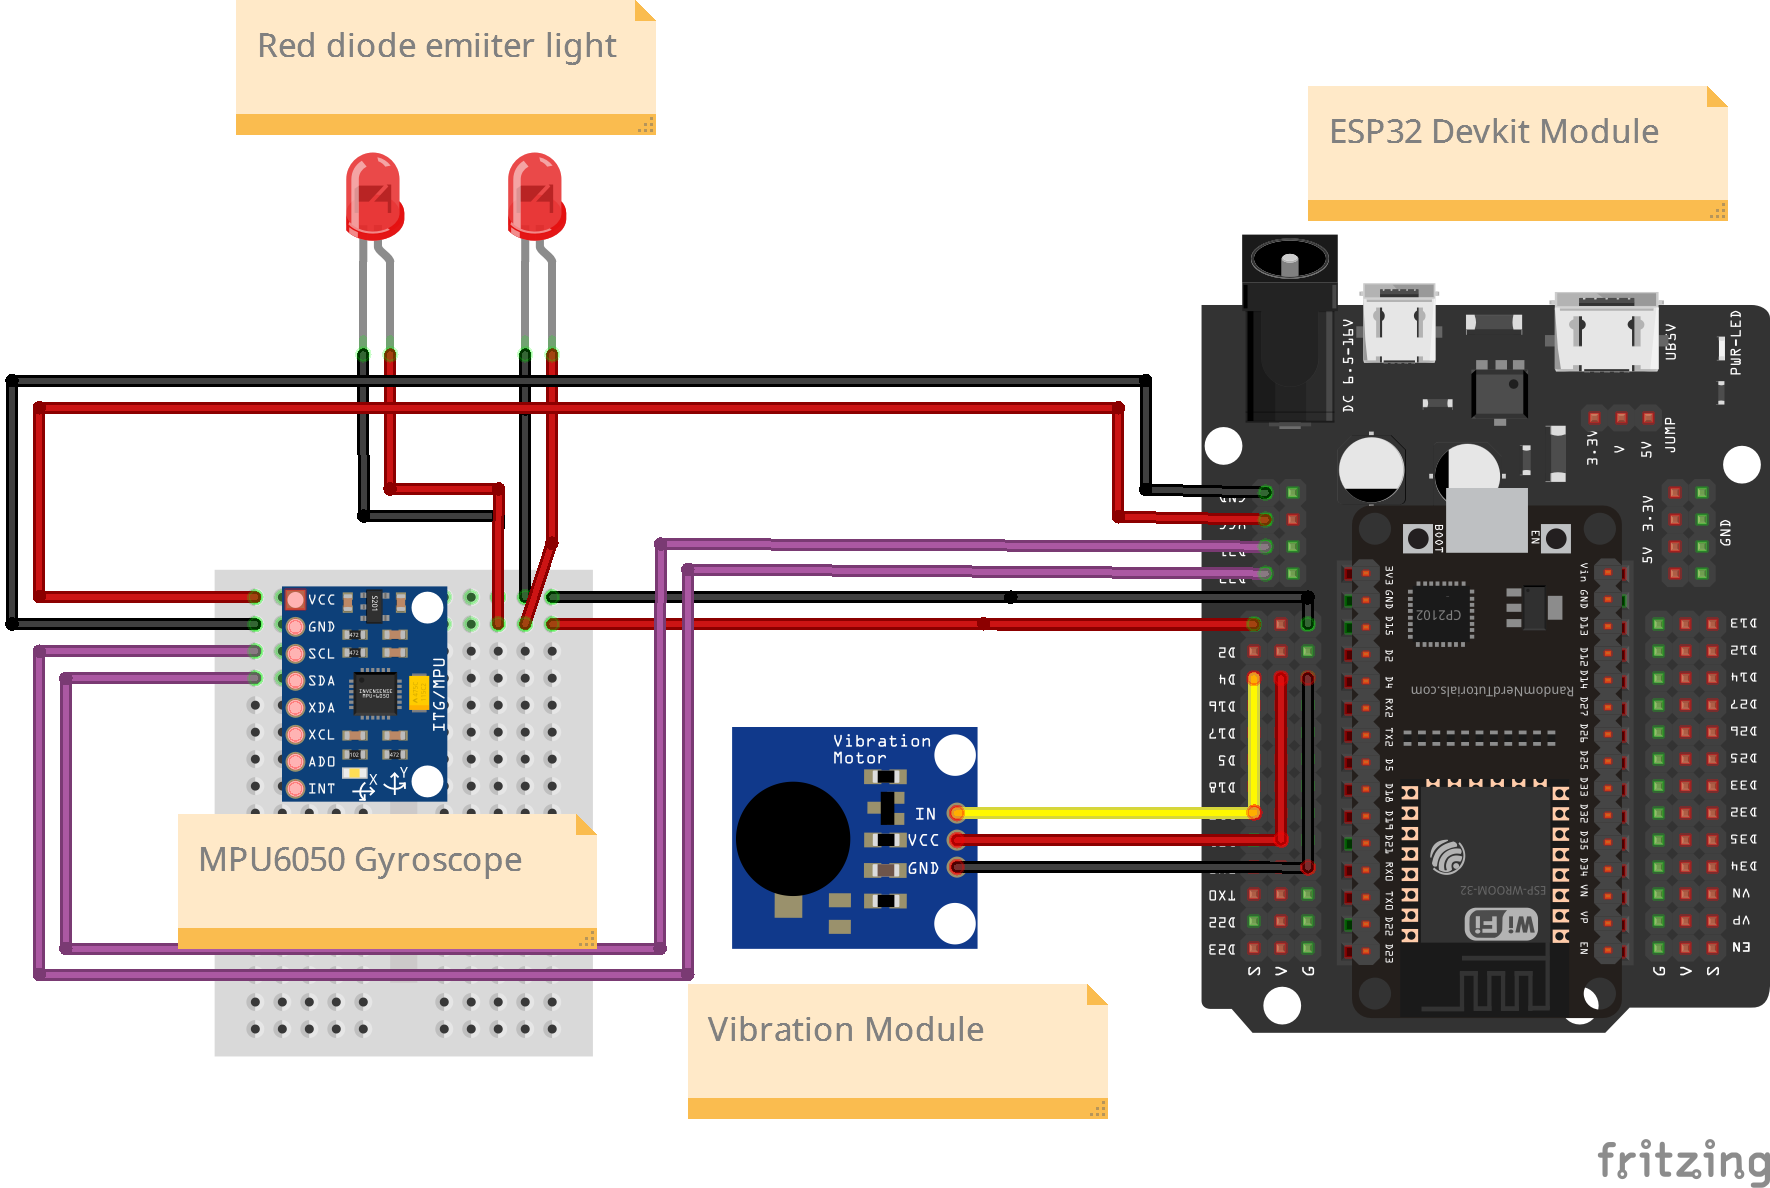
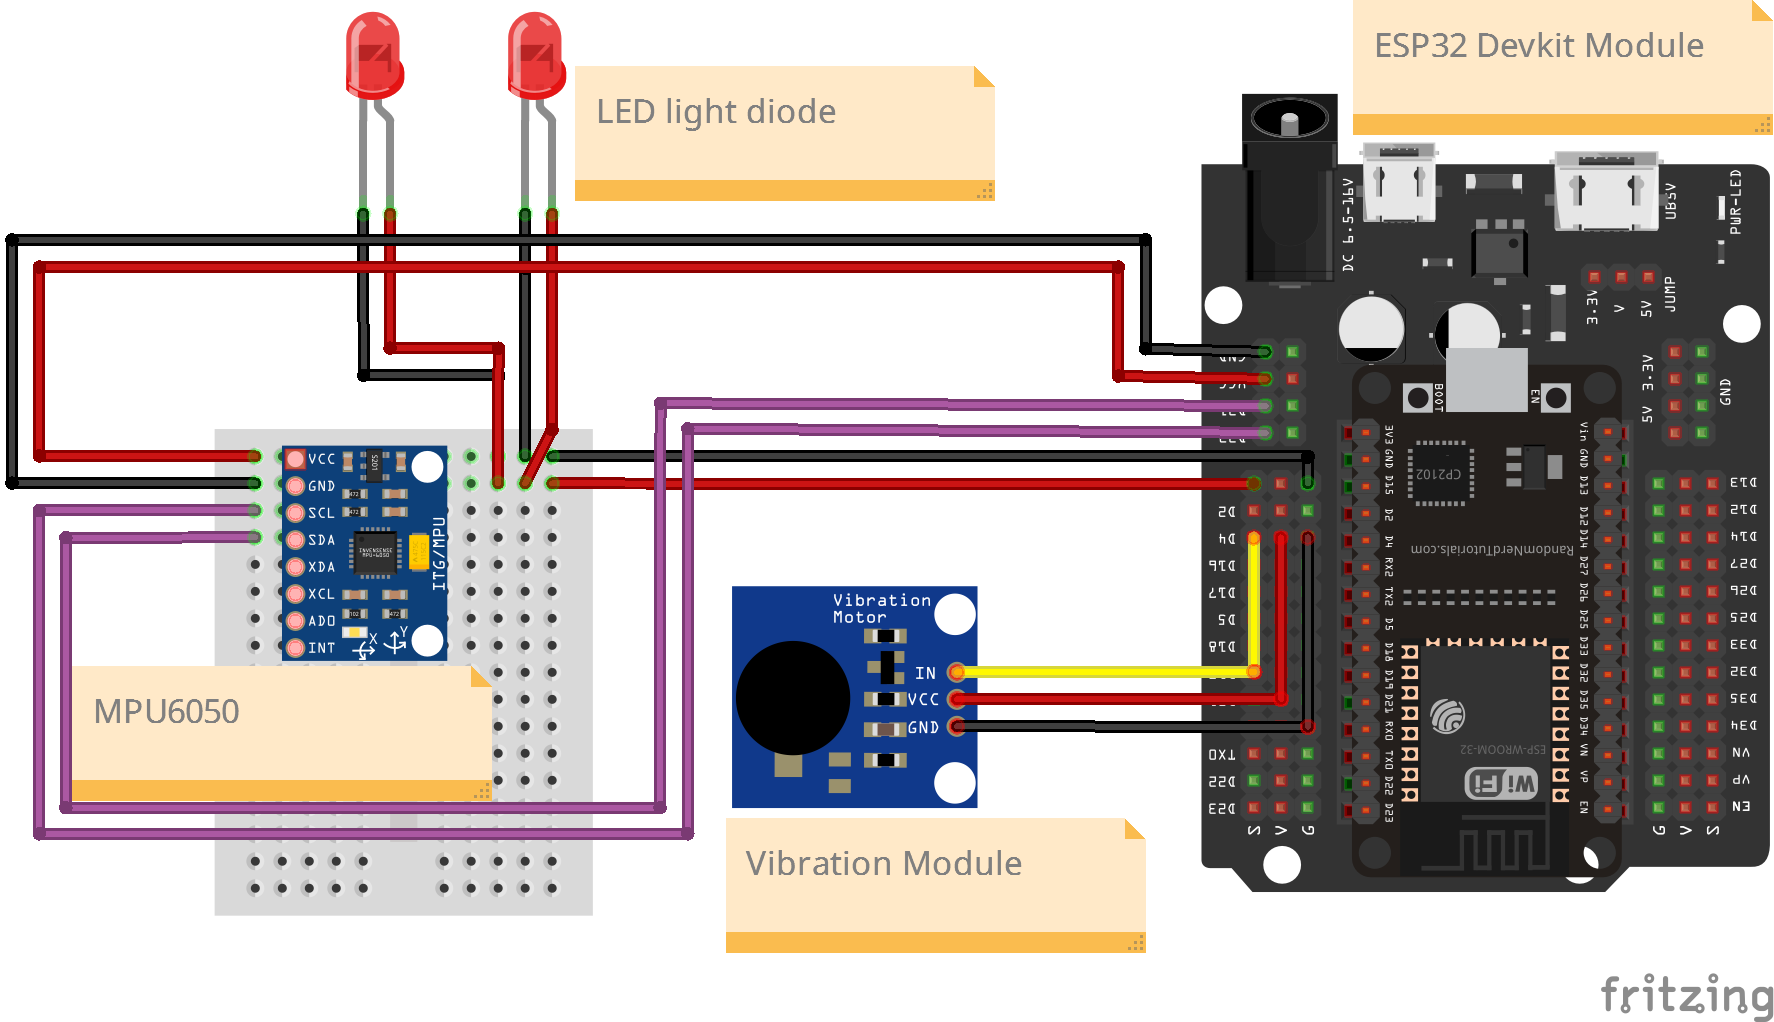
Update README.md with detailed project description, hardware components, circuit wiring, system flowchart, and quick start guide; replace circuit image

diff --git a/README.md b/README.md
@@ -1,2 +1,180 @@
-# REM-Glasses
-Maximize your chances of lucid dreaming.
+# 🕶 REM-Glasses Prototype V1.0
+
+> **Maximize your chances of lucid dreaming with intelligent sleep tracking.**
+
+<p align="center">
+  <img src="media/model.png" alt="REM-Glasses 3D Model" width="650" />
+</p>
+
+<p align="center">
+  <img src="https://img.shields.io/badge/Platform-ESP32-blue.svg" alt="Platform ESP32" />
+  <img src="https://img.shields.io/badge/Sensor-MPU6500%20%2F%20MPU6050-orange.svg" alt="Sensor MPU6500" />
+  <img src="https://img.shields.io/badge/Language-C%2B%2B%20%2F%20Arduino-brightgreen.svg" alt="Arduino C++" />
+  <img src="https://img.shields.io/badge/Status-Prototype%20V1.0-yellow.svg" alt="Version 1.0" />
+</p>
+
+---
+
+## 📖 1. About The Project
+
+**REM-Glasses Prototype V1.0** is a smart eyewear device designed to assist in **Lucid Dreaming (becoming aware that you are dreaming)**.
+
+The glasses track sleep patterns through head movement using a 6-axis accelerometer/gyroscope (IMU) combined with a sleep cycle simulation algorithm. When the system detects that the user has entered **REM Sleep**, it delivers subtle cue signals (soft flashing LED lights and gentle vibration alerts) to prompt conscious awareness within the dream without waking the user up.
+
+---
+
+## 🛠 2. Hardware & Components
+
+<p align="center">
+  <img src="media/drawable.png" alt="Component Diagram" width="550" />
+</p>
+
+| Component | Description / Function |
+| :--- | :--- |
+| **ESP32 Development Board** | Main microcontroller, data processing |
+| **MPU-6500 / MPU-6050 (IMU)** | 6-axis motion and accelerometer sensor (I2C) |
+| **REM Cue Actuators (LED / Vibration Motor)** | Soft flashing LED light and vibration motor for REM alerts |
+| **Safety Glasses (Just Prototype *\_*)** | Glasses or eye mask frame for mounting the sensor and board to the face |
+| **Wiring & Accessories** | Jumper Wires, Breadboard |
+
+---
+
+## 🔌 3. Circuit & Wiring
+
+<p align="center">
+  <img src="media/circuit.png" alt="Circuit Wiring Diagram" width="550" />
+</p>
+
+### Pin Mapping
+
+| Device / Module | Pin | ESP32 Pin (GPIO) | Notes |
+| :--- | :--- | :--- | :--- |
+| **MPU-6500 (IMU)** | VCC | `3.3V` or `5V` | Sensor power supply |
+| | GND | `GND` | Common Ground |
+| | SCL | `GPIO 22` (D22) | I2C Clock |
+| | SDA | `GPIO 21` (D21) | I2C Data |
+| **REM Output 1** | Positive (+) | `GPIO 4` (D4) | REM Cue Alert 1 |
+| **REM Output 2** | Positive (+) | `GPIO 15` (D15) | REM Cue Alert 2 & Calibration Status LED |
+| **Built-in LED** | - | `GPIO 2` (D2) | On-board Calibration Indicator LED |
+
+---
+
+## 🔄 4. System Flowchart
+
+```text
+               +----------------------------------+
+               |           Start / Boot           |
+               +----------------------------------+
+                                |
+                                v
+               +----------------------------------+
+               |     Initialize Serial & I2C      |
+               |       (SDA: D21, SCL: D22)       |
+               +----------------------------------+
+                                |
+                                v
+               +----------------------------------+
+               |     MPU6500 Auto-Calibration    |
+               |  (Keep still, 2000 samples)      |
+               +----------------------------------+
+                                |
+                        [Calibrated OK?]
+                         /            \
+                   (Yes)/              \(No)
+                       v                v
+        +-----------------------+   +-----------------------+
+        | Set Offsets & Ready   |   | D4/D2 Error Pulse     |
+        | State = STATE_AWAKE   |   | & Auto Retry          |
+        +-----------------------+   +-----------------------+
+                    |                            ^
+                    +----------------------------+
+                    |
+                    v
+    ================= MAIN LOOP =================
+                    |
+      +-------------+-------------+
+      |                           |
+      v                           v
++------------------+     +-------------------------------+
+|  Serial Commands |     | Every 100 ms:                 |
+|  (!VERBOSE,      |     | - Read Accel magnitude        |
+|   !TEST,         |     | - motion = |mag - 1.0G|       |
+|   !DEBUG,        |     | - epochMotionScore += motion  |
+|   !CALIBRATE)    |     +-------------------------------+
++------------------+                      |
+                                          v
+                         +-------------------------------+
+                         | Every 60s (1 Epoch):          |
+                         | Evaluate Sleep State Machine  |
+                         +-------------------------------+
+                                          |
+                         +-------------------------------+
+                         | epochMotionScore < T_STILL ?  |
+                         +-------------------------------+
+                                  /             \
+                            (Yes)/               \(No)
+                                v                 v
+                 continuousStillEpochs++    continuousStillEpochs = 0
+                                |                 |
+                                +--------+--------+
+                                         |
+                                         v
+                         +-------------------------------+
+                         |         Current State         |
+                         +-------------------------------+
+                                   /           \
+                       (STATE_AWAKE)           (STATE_SLEEPING_NREM)
+                             /                       \
+             +--------------+                         +----------------------+
+             |                                                               |
+             v                                                               v
++-----------------------------+                             +---------------------------------+
+| continuousStillEpochs >= 15 |                             | minutesSinceSleep++             |
++-----------------------------+                             +---------------------------------+
+        /              \                                                     |
+  (Yes)/                \(No)                               +---------------------------------+
+      v                  v                                  | Check REM Sleep Window:         |
+[STATE_SLEEPING_NREM] [STATE_AWAKE]                         | Cycle 1: 80-100 min             |
+                                                            | Cycle 2: 170-200 min            |
+                                                            | Cycle 3: 255-295 min            |
+                                                            | Cycle 4+: >= 340 min            |
+                                                            +---------------------------------+
+                                                                             |
+                                                            +---------------------------------+
+                                                            | In REM Window AND Still >= 5m ? |
+                                                            +---------------------------------+
+                                                                      /             \
+                                                                (Yes)/               \(No)
+                                                                    v                 v
+                                                          [STATE_POSSIBLE_REM]   [STATE_SLEEPING]
+                                                                    |
+                                                                    v
+                                                     +-------------------------------+
+                                                     | Trigger REM Cue:              |
+                                                     | D4 & D15 HIGH for 2 seconds   |
+                                                     +-------------------------------+
+```
+
+---
+
+## 💤 5. Quick Start Guide
+
+<p align="center">
+  <img src="media/while_wearing.png" alt="While Wearing Prototype" width="550" />
+</p>
+
+1. **Powering On & Calibration**
+   - Connect power to the ESP32 board.
+   - Put on the glasses and lie still for the initial startup. The system will calibrate the sensor while the LED blinks.
+   - Once calibration is complete, the system automatically begins the sleep tracking mode.
+
+2. **Serial Monitor Control Commands (Baud Rate: 115200)**
+   - `!TEST` : Test-trigger the REM cue alert (active for 2 seconds)
+   - `!DEBUG` : Toggle fast simulation mode (5-second epochs for quick testing)
+   - `!VERBOSE` : Toggle detailed calculation and logging output
+   - `!CALIBRATE` : Re-trigger the sensor calibration routine
+
+3. **Sleep Operation**
+   - After lying still continuously for 15 minutes, the system marks the state as **Sleep Onset**.
+   - When reaching the natural **REM Sleep** cycle windows (Minutes 80–100, 170–200, 255–295, 340+) and the head remains still, the system triggers a 2-second REM Cue alert.
+
